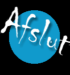
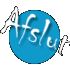
fix: restore transparent Director interface mattes

diff --git a/tests/imageManifest.test.ts b/tests/imageManifest.test.ts
@@ -1,4 +1,4 @@
-import { readdirSync } from "node:fs";
+import { readFileSync, readdirSync } from "node:fs";
 import { fileURLToPath } from "node:url";
 import { describe, expect, it } from "vitest";
 import { SCENES } from "../src/game/sceneRegistry";
@@ -63,5 +63,16 @@ describe("image asset manifest", () => {
     expect(IMAGE_MEMBERS).toHaveLength(109);
     expect(new Set(IMAGE_MEMBERS).size).toBe(109);
     expect([...IMAGE_MEMBERS].sort()).toEqual(actualMembers);
+  });
+
+  it("preserves Director transparent mattes on toolbar and clock art", () => {
+    const imageDirectory = fileURLToPath(
+      new URL("../public/assets/images", import.meta.url),
+    );
+    for (const member of ["tegn-musik", "tegn-sp", "tegn-afslut", "ur1"]) {
+      const png = readFileSync(`${imageDirectory}/${member}.png`);
+      // PNG IHDR color type 6 is truecolour with an alpha channel.
+      expect(png[25], member).toBe(6);
+    }
   });
 });

diff --git a/src/styles.css b/src/styles.css
@@ -348,7 +348,6 @@ button {
   width: 100%;
   height: 100%;
   object-fit: contain;
-  mix-blend-mode: screen;
   transition: opacity 100ms ease, filter 100ms ease;
 }
 

diff --git a/docs/image-assets.md b/docs/image-assets.md
@@ -53,6 +53,16 @@ The current web collection therefore contains 109 closed, manifest-validated PNG
 files. The 89 BMP files common to both supplied working copies are byte-identical.
 See `docs/legacy-fresh-audit.md` for the comparison and integration decisions.
 
+Director treated the black matte around toolbar and clock artwork as transparent.
+The corresponding web derivatives therefore carry a real alpha channel; the
+source BMP files remain untouched. This prevents black rectangles from obscuring
+the recovered blue stage background.
+
+`tools/assets/convert-legacy-fresh-bmp-to-png.sh` reproduces the 16 later
+derivatives when the optional, deliberately uncommitted `Legacy Fresh` source is
+available. The original conversion script applies the same matte treatment to
+the four clock images.
+
 ## Source preference
 
 The supplied BMP files are preferred where available. Although dimensions match

diff --git a/docs/legacy-fresh-audit.md b/docs/legacy-fresh-audit.md
@@ -114,6 +114,7 @@ The web app now includes the later build's safe, source-backed improvements:
 
 - blue Director stage background with correctly centred room scene;
 - recovered help, music, and quit toolbar at score-derived coordinates;
+- Director-style transparent mattes for toolbar and clock derivatives;
 - local help overlay based on the recovered Director help text;
 - looping location music with mute control;
 - music ducking during video, still, and text narrative cues;

diff --git a/README.md b/README.md
@@ -107,6 +107,13 @@ Asset and Director inspection commands are documented under
 ./tools/assets/convert-bmp-to-png.sh
 ```
 
+If the uncommitted recovered working copy is present locally, its 16 additional
+image derivatives can be reproduced with:
+
+```sh
+./tools/assets/convert-legacy-fresh-bmp-to-png.sh
+```
+
 ## Source layout
 
 ```text
